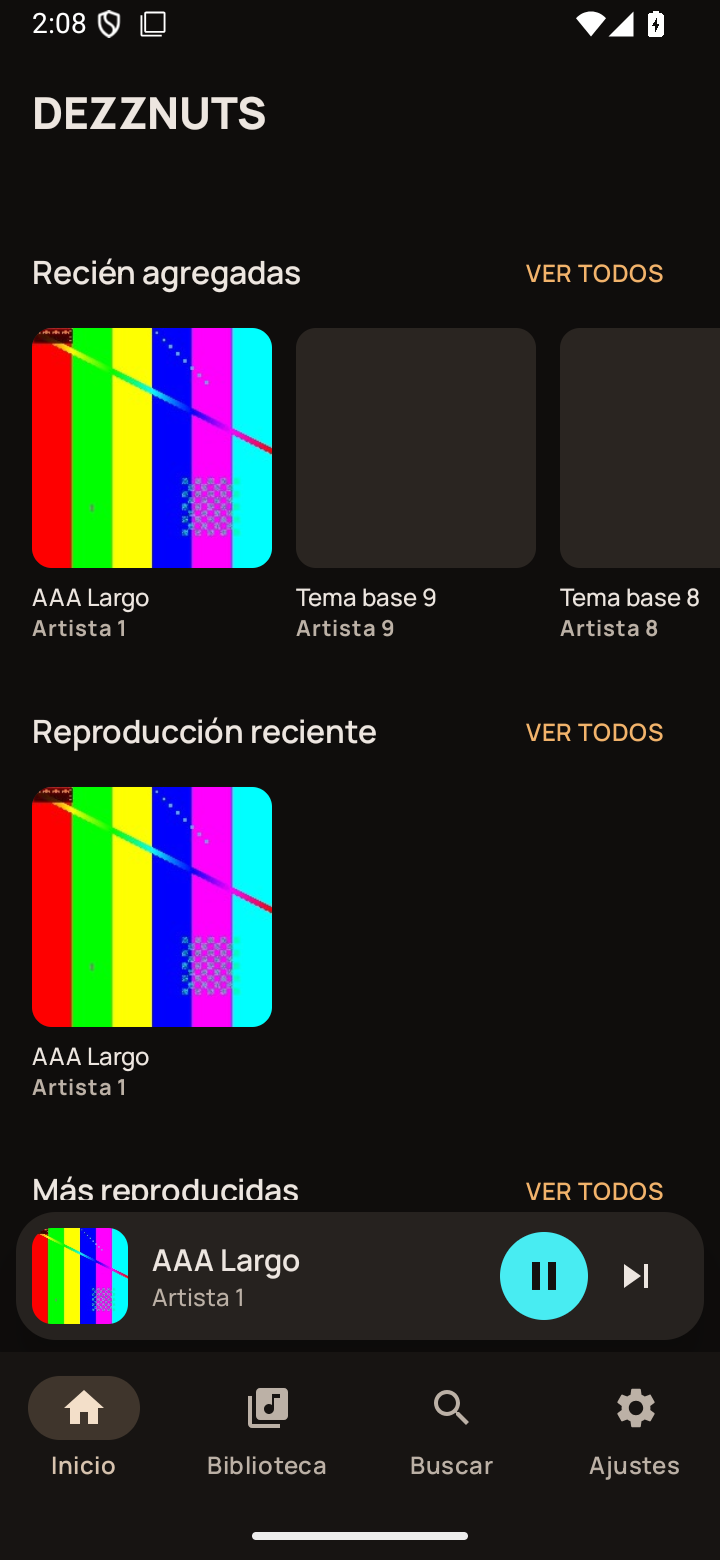
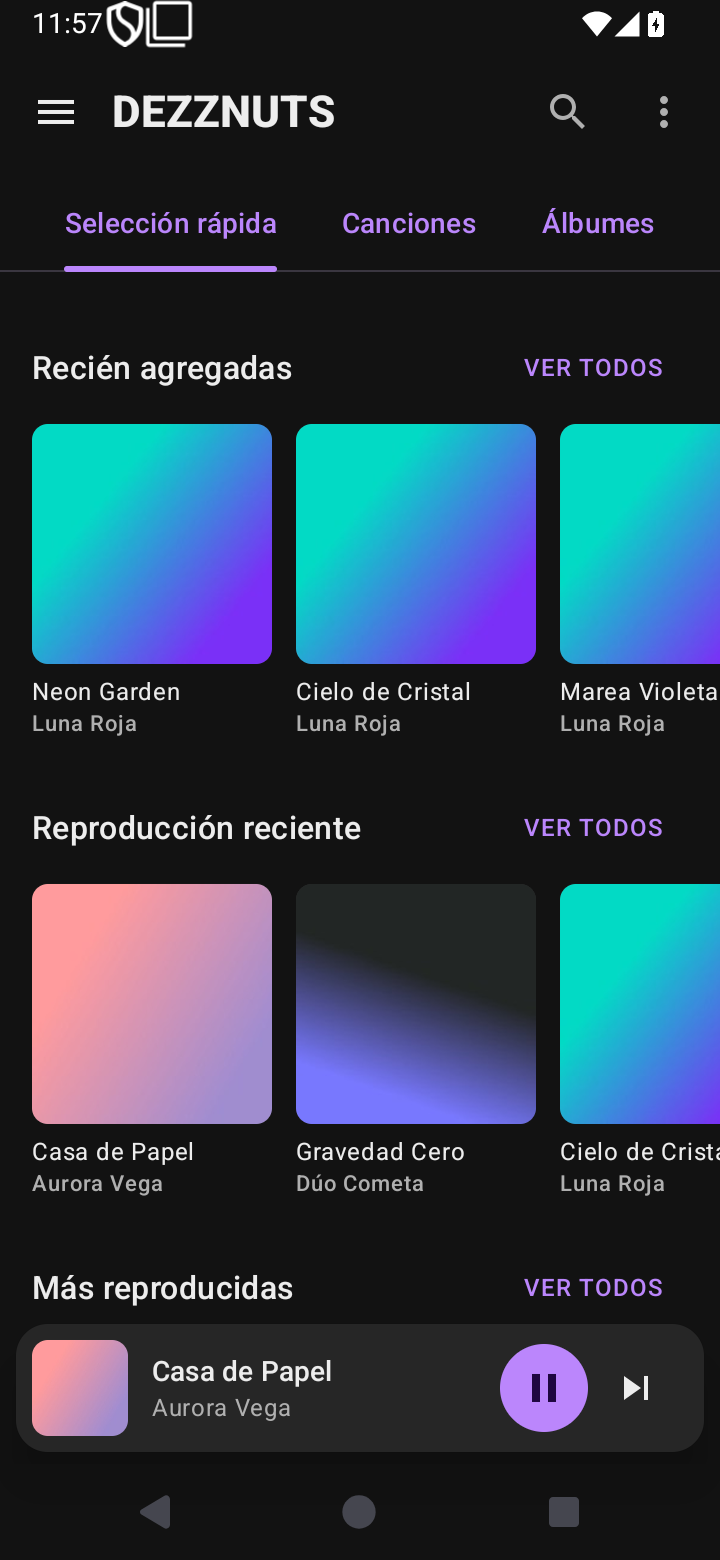
docs: README y capturas nuevas con el tema morado y la maqueta (inicio, canciones, reproductor, letras, menú y opciones)

diff --git a/README.md b/README.md
@@ -30,10 +30,12 @@ reproduce en segundo plano con **Media3 / ExoPlayer**.
 ## 📸 Capturas
 
 <div align="center">
-<img src="docs/screenshots/01-inicio.png" alt="Inicio" width="22%" />
-<img src="docs/screenshots/02-canciones.png" alt="Biblioteca" width="22%" />
-<img src="docs/screenshots/03-ajustes.png" alt="Ajustes" width="22%" />
-<img src="docs/screenshots/04-reproductor.png" alt="Reproductor" width="22%" />
+<img src="docs/screenshots/01-inicio.png" alt="Inicio" width="15%" />
+<img src="docs/screenshots/02-canciones.png" alt="Canciones" width="15%" />
+<img src="docs/screenshots/04-reproductor.png" alt="Reproductor" width="15%" />
+<img src="docs/screenshots/07-letras.png" alt="Letras" width="15%" />
+<img src="docs/screenshots/06-menu.png" alt="Menú" width="15%" />
+<img src="docs/screenshots/05-opciones.png" alt="Opciones" width="15%" />
 </div>
 
 ---
@@ -44,10 +46,10 @@ reproduce en segundo plano con **Media3 / ExoPlayer**.
 
 **Interfaz**
 
-- Barra inferior **Inicio · Biblioteca · Buscar · Ajustes**; los detalles (artista, álbum, género, lista) se
-  apilan y "atrás" vuelve a la pantalla anterior.
-- Identidad propia: negro cálido y caramelo, tipografía **Manrope** y radios de esquina unificados.
-- El reproductor y el mini-reproductor toman el **color dominante de la carátula**.
+- Barra superior con ☰ · lupa · ⋮, **pestañas deslizables** (Selección rápida, Canciones, Álbumes, Artistas, Géneros,
+  Listas, Carpetas y **YT Music**) y menú lateral; los detalles se apilan y "atrás" vuelve a la pantalla anterior.
+- Identidad DEZZNUTS: **morado** `#BB86FC` y turquesa sobre negro; temas opcionales (AMOLED, claro, Material You).
+- Pantalla de **Opciones** completa; textos en **español e inglés**.
 - Reproductor a pantalla completa: portada, título y favorito, progreso, controles, pestaña de **letras**
   sincronizadas (LRCLIB) y fondo animado con la carátula. Se abre deslizando el mini-reproductor hacia arriba y
   se cierra arrastrando hacia abajo; deslizar el mini-reproductor a los lados cambia de canción.
@@ -153,7 +155,7 @@ adb logcat -s DezzSeek
 | Componente | Versión / Herramienta |
 |------------|-----------------------|
 | Lenguaje | Kotlin `2.2.10` |
-| UI | Jetpack Compose (BOM `2026.02.01`), Material 3, fuente Manrope (OFL) |
+| UI | Jetpack Compose (BOM `2026.02.01`), Material 3, tipografía de Material |
 | Reproductor | AndroidX Media3 `1.9.1` (ExoPlayer + MediaSession) |
 | Imágenes | Coil `2.7.0` |
 | Etiquetas | jaudiotagger `3.0.1` |
@@ -188,11 +190,11 @@ ecualizador, ReplayGain, hojas CUE, letras LRC y formato de duración. El CI
 
 ```
 app/src/main/java/com/example/creproductor/
-├── MainActivity.kt        # Entrada, permisos, barra inferior, mini-reproductor y diálogos
+├── MainActivity.kt        # Entrada, permisos, mini-reproductor y diálogos
 ├── data/                  # Modelos, escaneo (MediaStore), etiquetas, metadatos y preferencias
 ├── service/               # MusicService (reproducción), HiFiRenderersFactory, PlaybackDiagnostics
 ├── gui/                   # Pantallas Compose + MusicViewModel
-└── ui/theme/              # Colores, tipografía (Manrope) y formas de DEZZNUTS
+└── ui/theme/              # Tema de DEZZNUTS (morado, AMOLED, claro, Material You)
 ```
 
 📄 El detalle técnico completo (arquitectura, flujo de datos y notas de desarrollo) está en

diff --git a/README.en.md b/README.en.md
@@ -23,10 +23,12 @@ Features other players lock behind a paywall (auto-tagging, audio cutter, equali
 ## 📸 Screenshots
 
 <div align="center">
-<img src="docs/screenshots/01-inicio.png" alt="Home" width="22%" />
-<img src="docs/screenshots/02-canciones.png" alt="Library" width="22%" />
-<img src="docs/screenshots/03-ajustes.png" alt="Settings" width="22%" />
-<img src="docs/screenshots/04-reproductor.png" alt="Player" width="22%" />
+<img src="docs/screenshots/01-inicio.png" alt="Home" width="15%" />
+<img src="docs/screenshots/02-canciones.png" alt="Songs" width="15%" />
+<img src="docs/screenshots/04-reproductor.png" alt="Player" width="15%" />
+<img src="docs/screenshots/07-letras.png" alt="Lyrics" width="15%" />
+<img src="docs/screenshots/06-menu.png" alt="Menu" width="15%" />
+<img src="docs/screenshots/05-opciones.png" alt="Options" width="15%" />
 </div>
 
 ## 📦 What is it?
@@ -38,7 +40,7 @@ A native Android app written in **Kotlin + Jetpack Compose** that scans the musi
 | Area | Detail |
 |------|--------|
 | **Navigation** | Bottom bar Home · Library · Search · Settings; detail screens stack, so Back returns to the previous one. |
-| **Design** | Own identity (warm black + caramel, **Manrope** font); player and mini-player take the **cover's dominant color**. |
+| **Design** | DEZZNUTS identity: **purple** `#BB86FC` and teal on black, top tabs + side menu; optional AMOLED, light and Material You themes; full-screen Options; Spanish and English. |
 | **Player** | Cover, title & favorite, seek bar, controls, synced **lyrics** (LRCLIB), animated cover backdrop. Swipe the mini-player up to open, drag down to close, swipe sideways to skip. |
 | **Library** | Songs (filters + **sorting**), Albums, Artists, Playlists, Genres, Folders; Home with recent, most played, favorites and moods. |
 | **Queue** | **Play next**, add to queue, drag to reorder, remove. |
